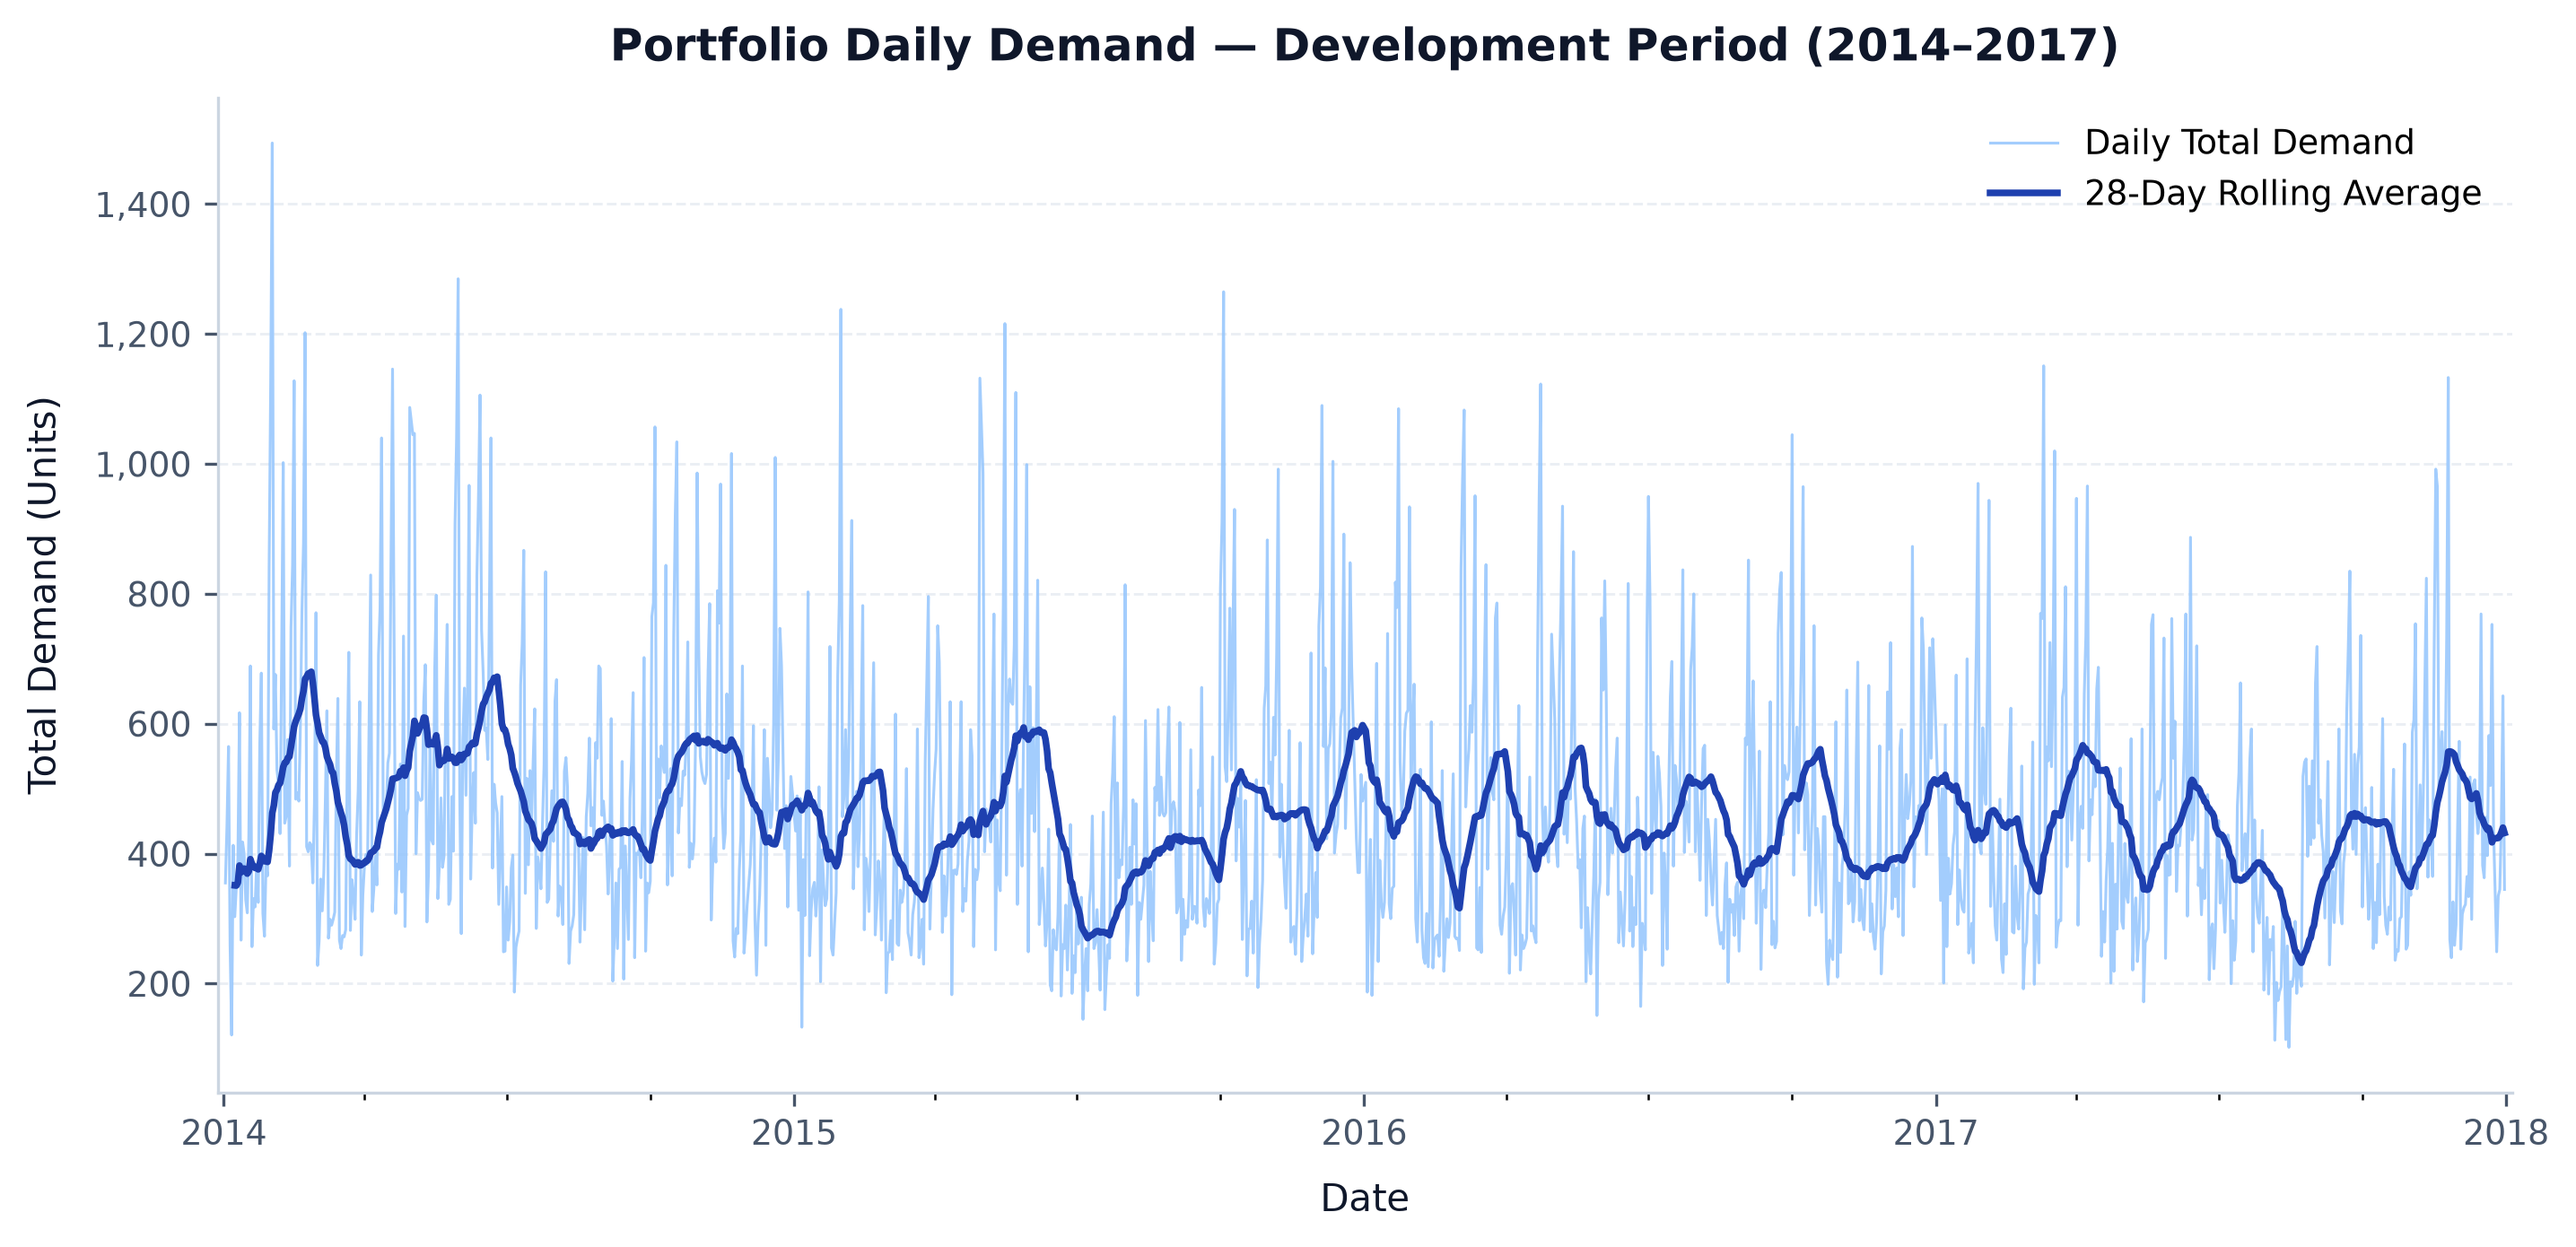
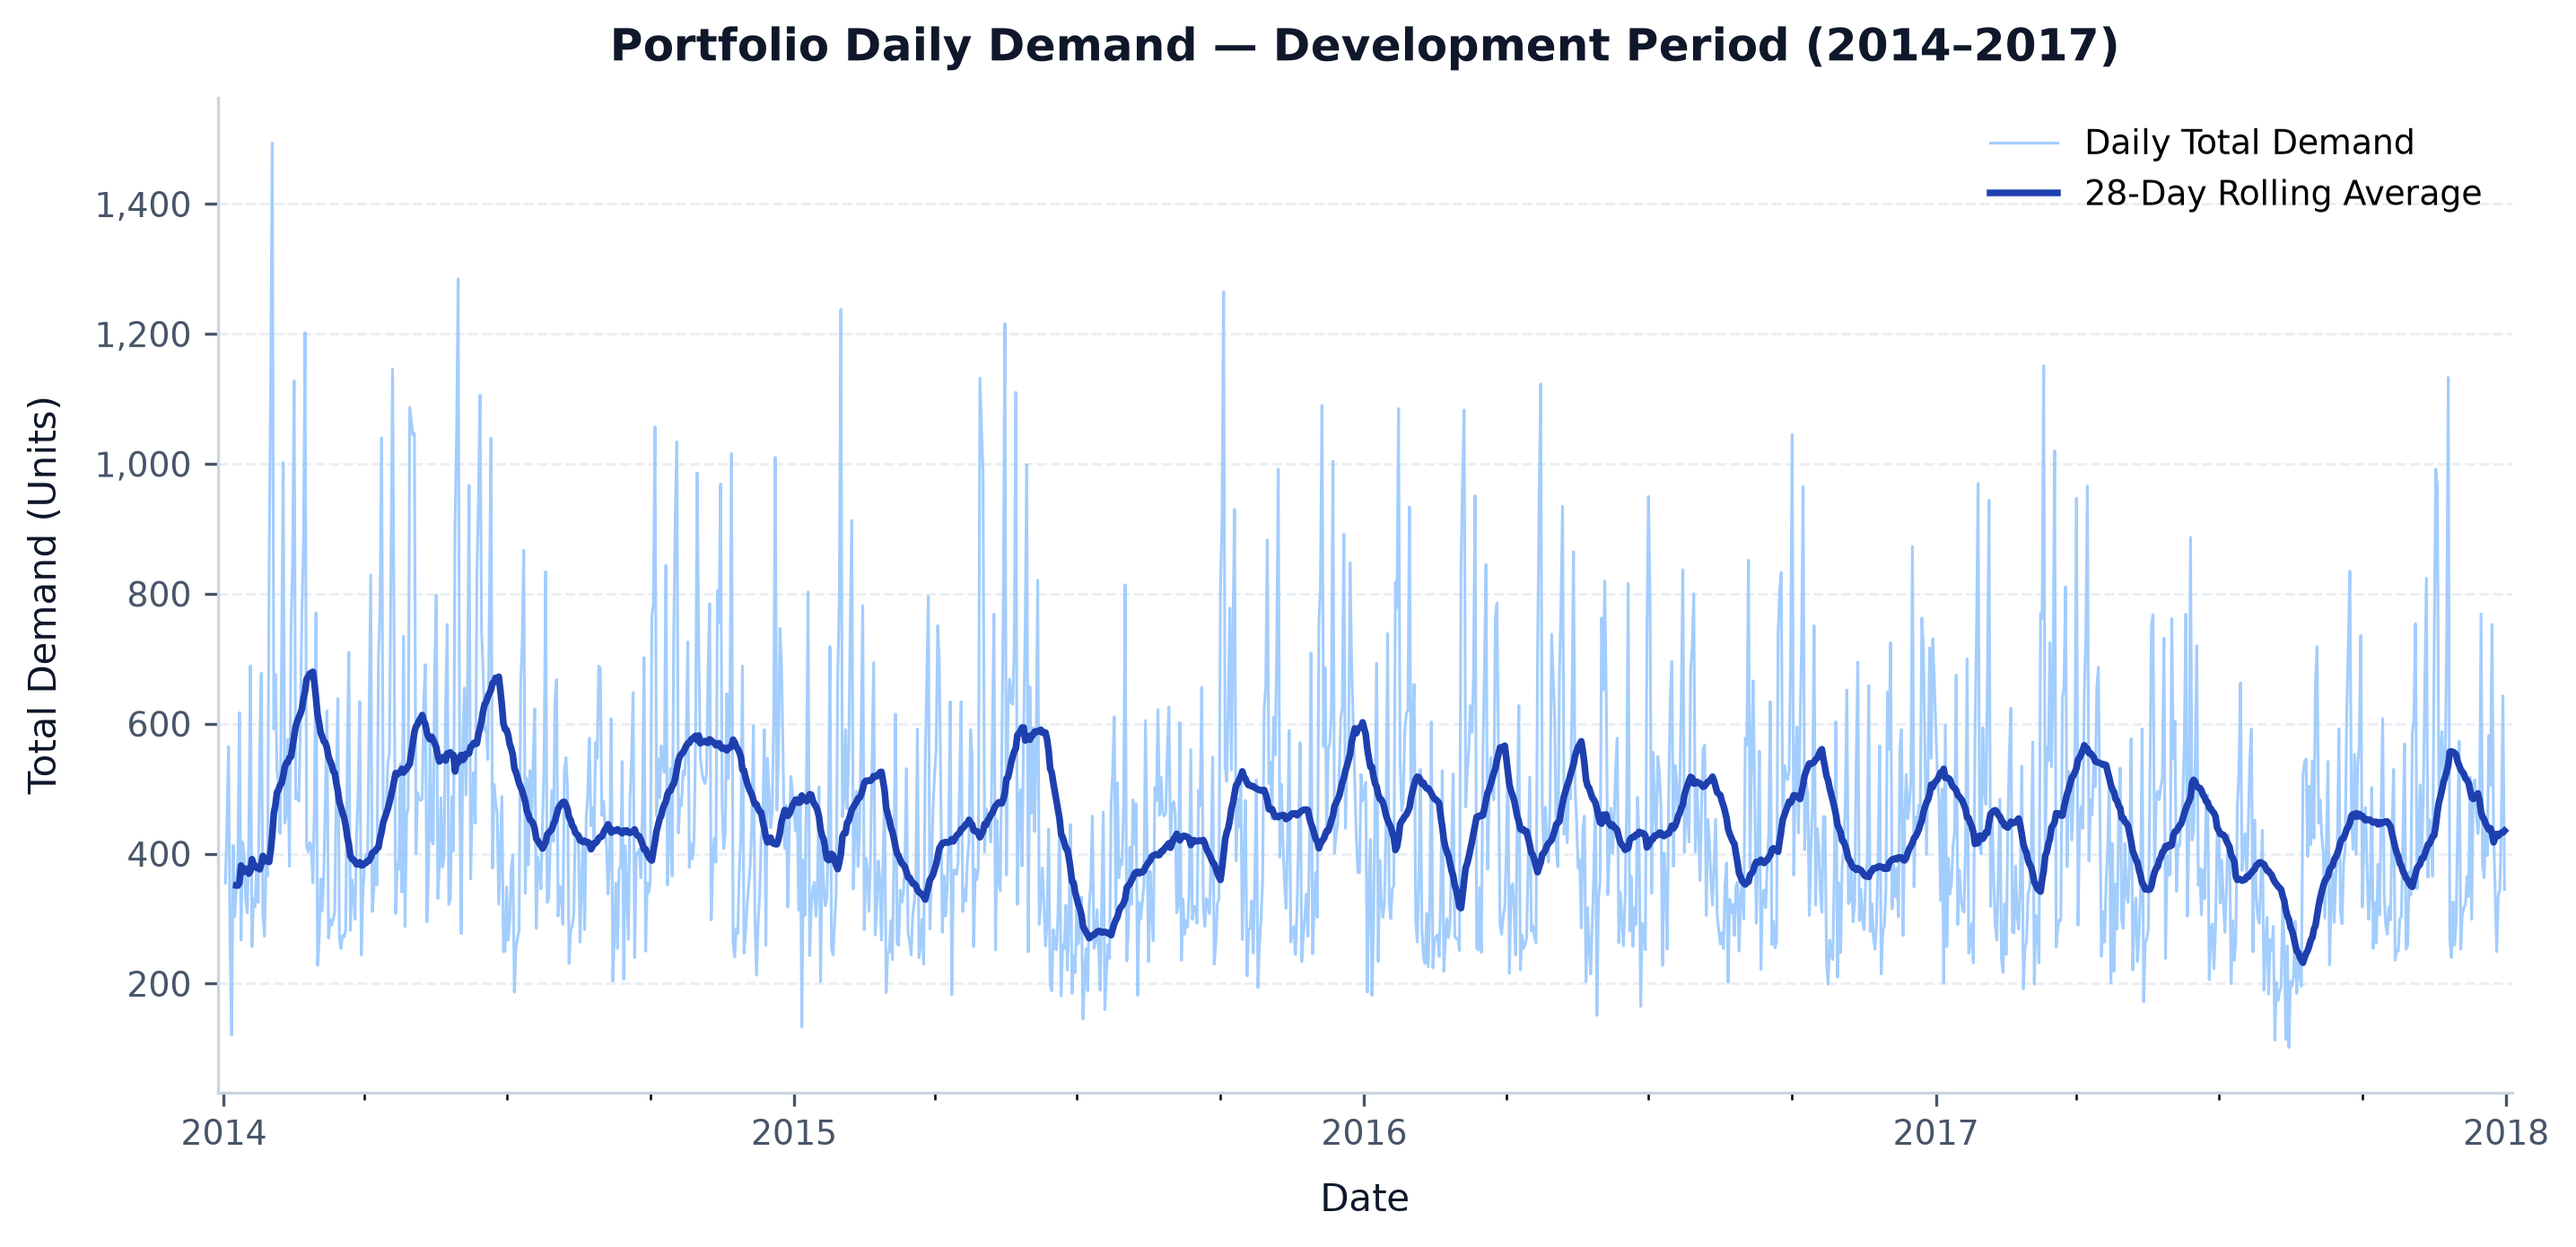
fix: align portfolio rolling window semantics

diff --git a/tests/test_visualization.py b/tests/test_visualization.py
@@ -27,6 +27,7 @@ from src.visualization.plot_utils import (
 from src.visualization.create_eda_figures import (
     FIGURE_NAMES,
     generate_all_eda_figures,
+    calculate_portfolio_calendar_rolling_mean,
 )
 
 CANONICAL_PATH = Path("data/processed/sku_demand_daily.csv")
@@ -38,6 +39,7 @@ def test_visualization_module_imports():
     import src.visualization.plot_utils as utils
 
     assert hasattr(eda, "generate_all_eda_figures")
+    assert hasattr(eda, "calculate_portfolio_calendar_rolling_mean")
     assert hasattr(eda, "FIGURE_NAMES")
     assert hasattr(utils, "select_representative_dense_sku")
     assert hasattr(utils, "select_representative_sparse_sku")
@@ -254,3 +256,75 @@ def test_holdout_leakage_detection_raises_error(tmp_path, monkeypatch):
             output_dir=tmp_path / "figs",
             cutoff_date=DEVELOPMENT_CUTOFF_DATE,
         )
+
+
+def test_portfolio_calendar_rolling_window_semantics():
+    """Verify portfolio rolling average uses exact trailing calendar days [t-28D, t-1D].
+
+    Tests behavioral differences between calendar window and observed rows:
+    1. Calendar window [t - 28 days, t - 1 day] strictly bounds historical dates.
+    2. Missing calendar dates are not imputed as zero demand.
+    3. The target date itself is excluded (closed='left').
+    4. Row-based rolling yields a different window and value across calendar gaps.
+    """
+    # Synthetic calendar with gap between 2020-01-03 and 2020-01-11 (7 missing calendar days)
+    # Target date: 2020-02-01
+    # Trailing 28-calendar-day window [t-28D, t-1D] is [2020-01-04, 2020-01-31].
+    dates = [
+        "2020-01-01",  # t - 31 days (outside 28-day calendar window)
+        "2020-01-02",  # t - 30 days (outside 28-day calendar window)
+        "2020-01-03",  # t - 29 days (outside 28-day calendar window)
+        # Gap: 2020-01-04 through 2020-01-10 (7 calendar days unobserved)
+        "2020-01-11",  # t - 21 days (inside 28-day window)
+        "2020-01-12",
+        "2020-01-13",
+        "2020-01-14",
+        "2020-01-15",
+        "2020-01-16",
+        "2020-01-17",
+        "2020-01-18",
+        "2020-01-19",
+        "2020-01-20",
+        "2020-01-21",
+        "2020-01-22",
+        "2020-01-23",
+        "2020-01-24",
+        "2020-01-25",
+        "2020-01-26",
+        "2020-01-27",
+        "2020-01-28",
+        "2020-01-29",
+        "2020-01-30",
+        "2020-01-31",  # t - 1 day (inside 28-day window)
+        "2020-02-01",  # Target date t (must be excluded from its own window)
+    ]
+    # Set values: 100 for dates outside window, 10 for dates inside window, 500 for target date
+    quantities = [100, 100, 100] + [10] * 21 + [500]
+    synth_df = pd.DataFrame({"date": dates, "quantity": quantities})
+
+    # Compute calendar rolling mean [t - 28D, t - 1D]
+    rolling_series = calculate_portfolio_calendar_rolling_mean(
+        synth_df, window_days=28, min_periods=7
+    )
+
+    target_dt = pd.to_datetime("2020-02-01")
+    actual_rolling_mean = rolling_series.loc[target_dt]
+
+    # Explicit calculation:
+    # Observations inside [2020-01-04, 2020-01-31]: exactly 21 observations of 10
+    # Mean of observed dates in window: (21 * 10) / 21 = 10.0
+    expected_calendar_mean = 10.0
+    assert actual_rolling_mean == expected_calendar_mean
+
+    # Verification 1: Target date (quantity 500) is excluded
+    assert actual_rolling_mean != 500.0
+
+    # Verification 2: Missing calendar dates are NOT imputed as zero
+    # (If missing 7 days were zeros, mean would be 210 / 28 = 7.5)
+    zero_imputed_mean = 7.5
+    assert actual_rolling_mean != zero_imputed_mean
+
+    # Verification 3: 28 observed rows produces a different value (includes older 100s)
+    # Prior to target, 24 rows exist: (3 * 100 + 21 * 10) / 24 = 21.25
+    row_rolling_mean = 21.25
+    assert actual_rolling_mean != row_rolling_mean

diff --git a/src/visualization/create_eda_figures.py b/src/visualization/create_eda_figures.py
@@ -55,6 +55,36 @@ FIGURE_NAMES: List[str] = [
 ]
 
 
+def calculate_portfolio_calendar_rolling_mean(
+    daily_df: pd.DataFrame,
+    window_days: int = 28,
+    min_periods: int = 7,
+) -> pd.Series:
+    """Calculate trailing calendar-day rolling mean excluding the target date.
+
+    Semantics: Trailing calendar window [t - window_days, t - 1 day].
+    Missing calendar dates are not imputed as zeros. The current target date t is excluded.
+
+    Parameters
+    ----------
+    daily_df : pd.DataFrame
+        DataFrame with 'date' and 'quantity' columns.
+    window_days : int, optional
+        Window size in calendar days (default: 28).
+    min_periods : int, optional
+        Minimum observed days required in trailing window (default: 7).
+
+    Returns
+    -------
+    pd.Series
+        Rolling mean series indexed by DatetimeIndex.
+    """
+    date_dt = pd.to_datetime(daily_df["date"])
+    s_qty = pd.Series(daily_df["quantity"].values, index=date_dt).sort_index()
+    rolling_series = s_qty.rolling(f"{window_days}D", closed="left", min_periods=min_periods).mean()
+    return rolling_series
+
+
 def plot_portfolio_daily_demand(dev_df: pd.DataFrame, output_path: Path) -> Path:
     """Figure 1: Portfolio Daily Demand Over Time across Development Period.
 
@@ -73,7 +103,9 @@ def plot_portfolio_daily_demand(dev_df: pd.DataFrame, output_path: Path) -> Path
     daily = dev_df.groupby("date")["quantity"].sum().reset_index()
     daily["date_dt"] = pd.to_datetime(daily["date"])
     daily.sort_values(by="date_dt", inplace=True)
-    daily["rolling_28"] = daily["quantity"].rolling(28, min_periods=7).mean()
+    daily["rolling_28"] = calculate_portfolio_calendar_rolling_mean(
+        daily, window_days=28, min_periods=7
+    ).values
 
     fig, ax = plt.subplots(figsize=(11, 4.8), dpi=FIGURE_DPI)
     ax.plot(
